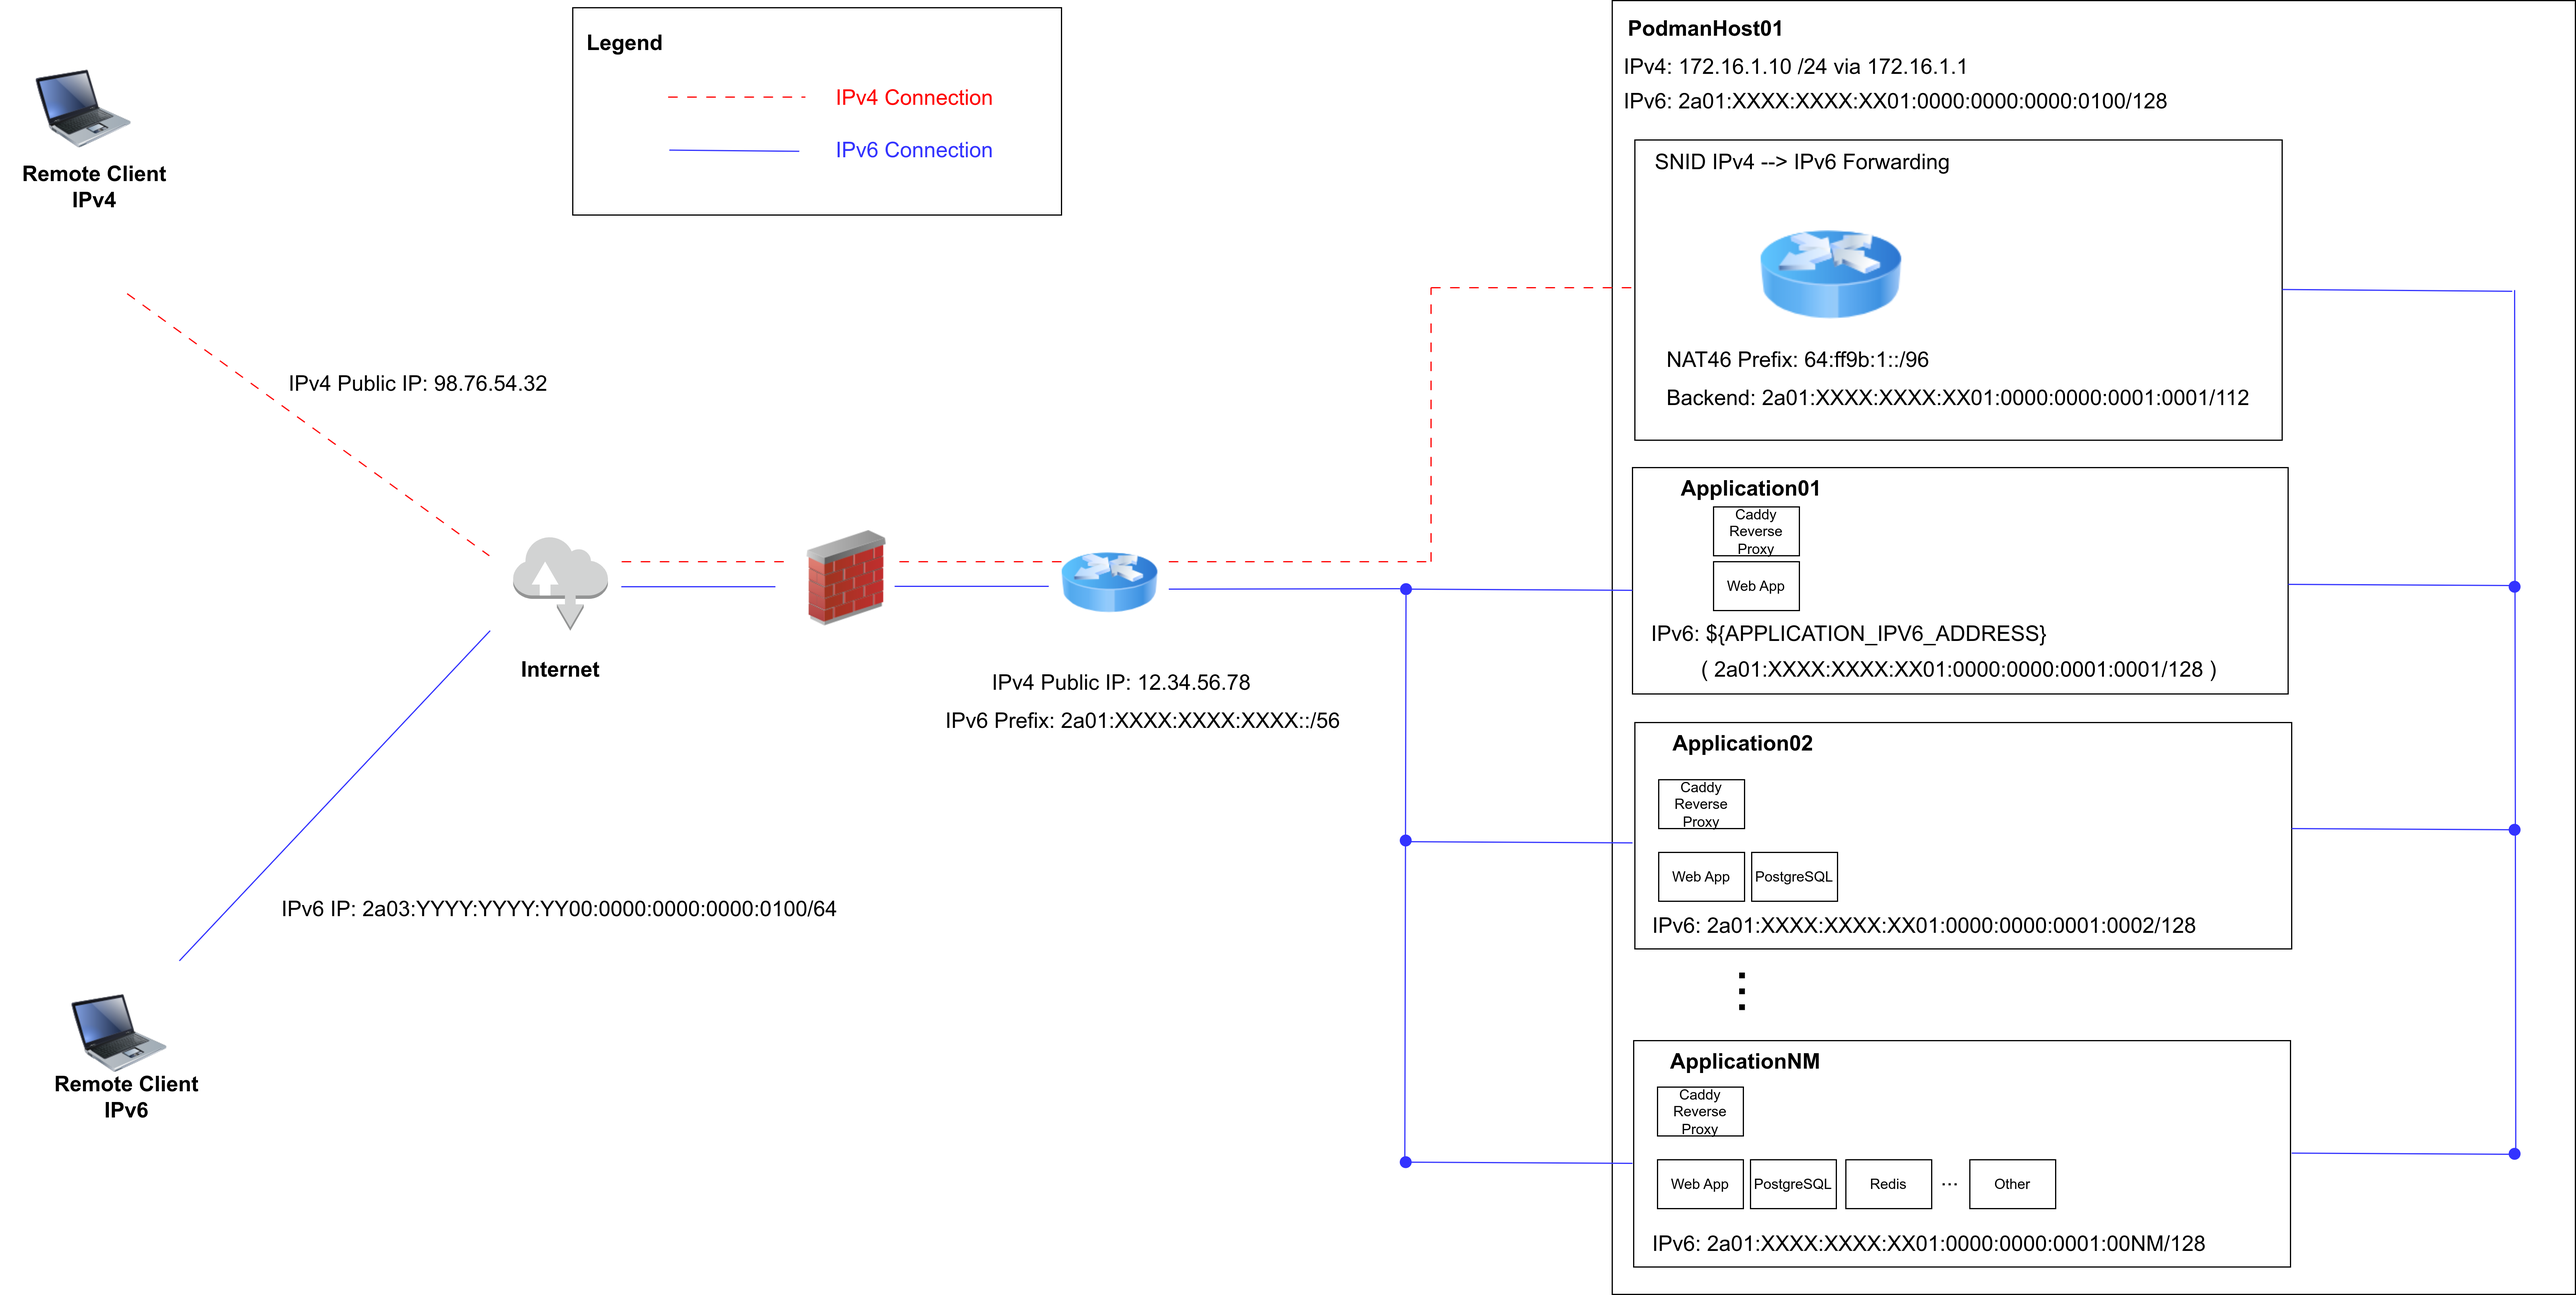
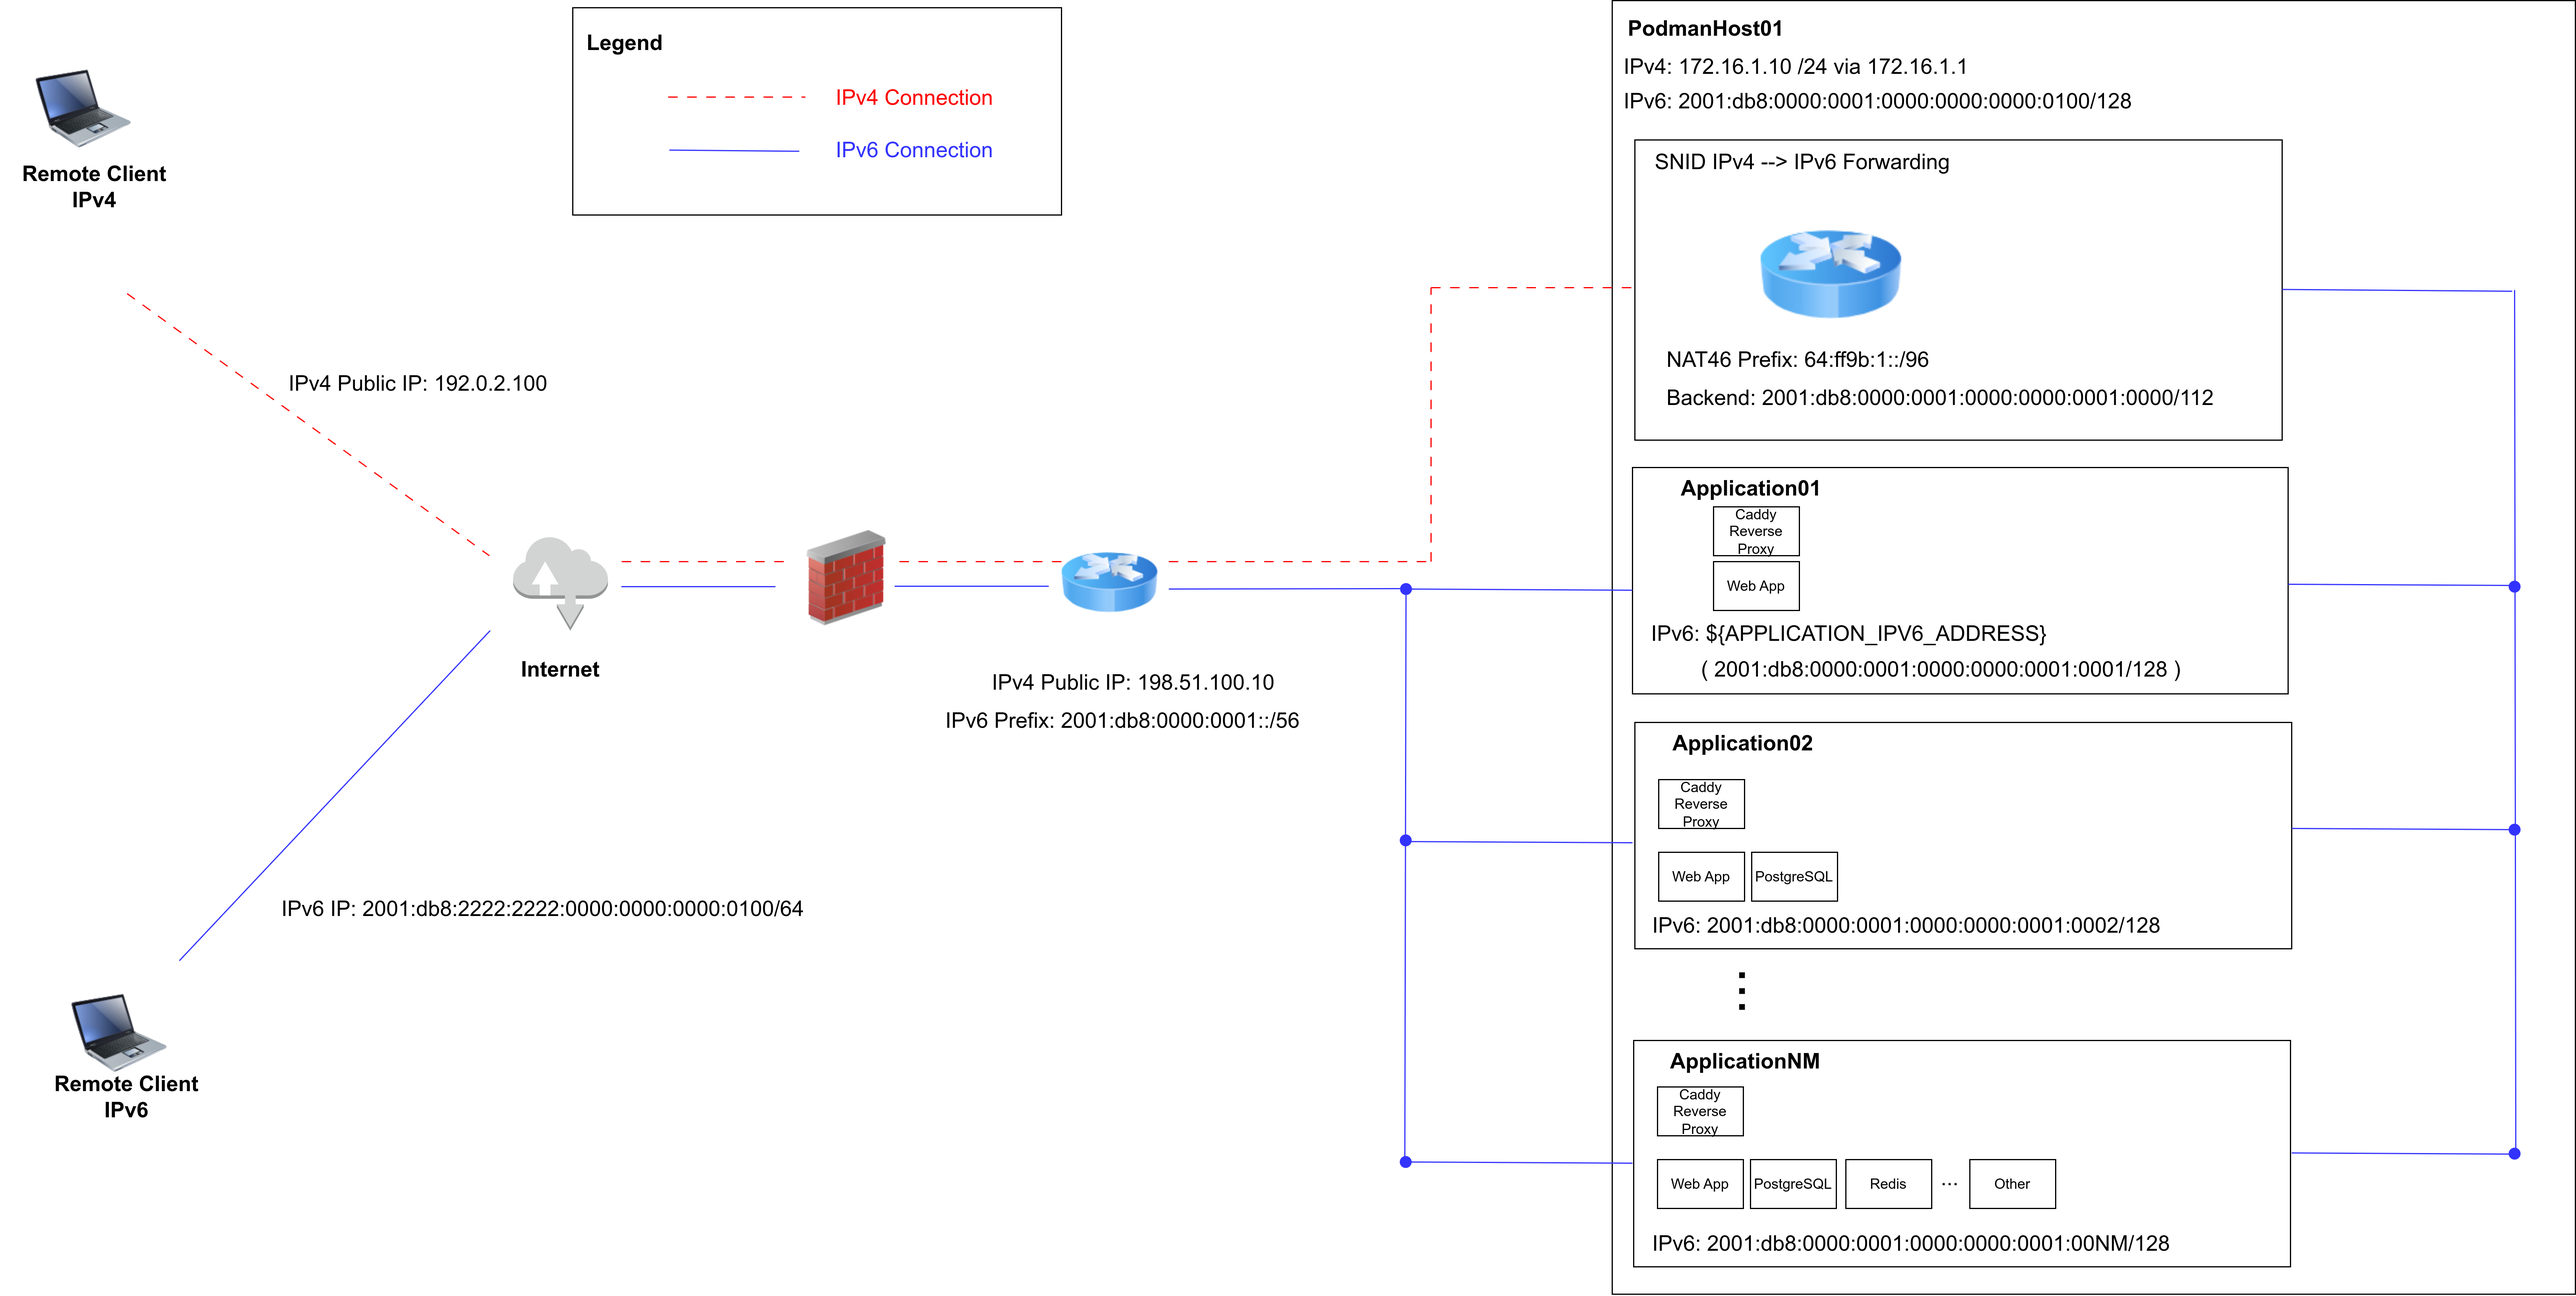
Updating Network Diagram and Document to use IP Addresses for Documentation Purposes (rfc3849 / rfc5737)

diff --git a/docs/tutorials/podman_pasta_ipv6_with_snid_ipv4.md b/docs/tutorials/podman_pasta_ipv6_with_snid_ipv4.md
@@ -45,29 +45,27 @@ This Tutorial assumes the General "Homelab" Setup (within a LAN/VLAN), or Hosted
 
 This is NOT required in case you have a Server which has a Public IPv4 Address, however for the sake of Explanation, the NAT Setup is best, especially with regards to logging the Remote Client IPv4 Address.
 
-![PODMAN Pasta Tutorial Network Diagram](https://raw.githubusercontent.com/containers/podman/tree/main/docs/tutorials/podman_pasta_ipv6_with_snid_ipv4.svg)
-
-> **Note**  
->
-> The IPv6 Address descrbed in this Tutorial (2a01:XXXX:XXXX:XXXX:XXXX:XXXX:XXXX:XXX) might not apply to everybody. Some IPv6 Addresses will beging with **2a01**, some with **2a03**, some with **2003**, etc. It's just explicitely written so that it's NOT confused with the link-local addresses (such as fe80:XXXX:XXXX:XXXX:XXXX:XXXX:XXXX:XXXX).
+![PODMAN Pasta Tutorial Network Diagram](podman_pasta_ipv6_with_snid_ipv4.svg)
 
 The Podman Host (Bare Metal or e.g. KVM Virtual Machine) is supposed to have:
-- Public IPv4 Address: 12.34.56.78
+- Public IPv4 Address: 198.51.100.10 (https://www.rfc-editor.org/rfc/rfc5737)
 - Private IPv4 Address: 172.16.1.10/24
-- Public+Private IPv6 Address: IPv6: 2a01:XXXX:XXXX:XX01:0000:0000:0000:0100/128
+- Public+Private IPv6 Address: IPv6: 2001:db8:0000:0001:0000:0000:0000:0100/128 (https://www.rfc-editor.org/rfc/rfc3849.html)
 
 Each Application will furthermore have an IPv6 Address, to which it will bind the Required Ports, which are typically:
 - Port 443/tcp (HTTPS)
 - Port 443/udp (HTTP3)
 - Port 80/tcp (HTTP)
 
-The Applications are supposed to be located within the following Network (corresponding to `snid` Backend CIDR Configuration): 2a01:XXXX:XXXX:XXXX:0000:0000:0001:0001/112 (2a01:XXXX:XXXX:XXXX:0000:0000:0001:0000 ... 2a01:XXXX:XXXX:XXXX:0000:0000:0001:ffff). Other IPv6 Addresses are also Possible, but then you must adjust `snid` Backend CIDR accordingly !
+The Applications are supposed to be located within the following Network (corresponding to `snid` Backend CIDR Configuration): 2001:db8:0000:0001:0000:0000:0001:0000/112 (2001:db8:0000:0001:0000:0000:0001:0000 ... 2001:db8:0000:0001:0000:0000:0001:ffff). Other IPv6 Addresses are also Possible, but then you must adjust `snid` Backend CIDR accordingly !
 
-For simplicity, the Application (`application01.MYDOMAIN.TLD`) described in this Tutorial will have APPLICATION_IPV6_ADDRESS="2a01:XXXX:XXXX:XXXX:0000:0000:0001:0001".
+For simplicity, the Application (`application01.MYDOMAIN.TLD`) described in this Tutorial will have APPLICATION_IPV6_ADDRESS="2001:db8:0000:0001:0000:0000:0001:0001".
 
-The Remote End-Client (Laptop) is supposed to have:
-- Public IPv4 Address: 98.76.54.32
-- Public+Private IPv6 Address: 2a03:YYYY:YYYY:YY00:0000:0000:0000:0100/64
+One Remote End-Client (Laptop) is supposed to have IPv4 Address:
+- Public IPv4 Address: 192.0.2.100 (https://www.rfc-editor.org/rfc/rfc5737)
+
+Another Remote End-Client (Laptop) is supposed to have IPv6 Address:
+- Public+Private IPv6 Address: 2001:db8:2222:2222:0000:0000:0000:0100/64 (https://www.rfc-editor.org/rfc/rfc3849.html)
 
 The IP Addresses of the Routers/Firewalls themselves are not described in this Section, as they are not relevant for the Configuration described by this Tutorial.
 
@@ -96,7 +94,7 @@ Then create a Systemd Service for it in `/etc/systemd/system/snid.service`
 ```
 # To get SNID to work:
 # Backend CIDR is supposed to be:
-# - Backend CIDR: 2a01:XXXX:XXXX:XXXX:0000:0000:0001:0001/112 (2a01:XXXX:XXXX:XXXX:0000:0000:0001:0000 ... 2a01:XXXX:XXXX:XXXX:0000:0000:0001:ffff)
+# - Backend CIDR: 2001:db8:0000:0001:0000:0000:0001:0001/112 (2001:db8:0000:0001:0000:0000:0001:0000 ... 2001:db8:0000:0001:0000:0000:0001:ffff)
 #
 # Convert IPv4 Address to IPv6 Address Representation: 
 # - https://www.agwa.name/blog/post/using_sni_proxying_and_ipv6_to_share_port_443
@@ -109,7 +107,7 @@ Description=SNID Service
 [Service]
 # Running as rootless does NOT appear to work, even when adding AmbientCapabilities=CAP_NET_BIND_SERVICE
 User=root
-ExecStart=/bin/bash -c 'cd /opt/snid && ip route add local 64:ff9b:1::/96 dev lo && ./snid -listen tcp:172.16.1.10:443 -mode nat46 -nat46-prefix 64:ff9b:1:: -backend-cidr 2a01:XXXX:XXXX:XXXX:0000:0000:0001:0001/112'
+ExecStart=/bin/bash -c 'cd /opt/snid && ip route add local 64:ff9b:1::/96 dev lo && ./snid -listen tcp:172.16.1.10:443 -mode nat46 -nat46-prefix 64:ff9b:1:: -backend-cidr 2001:db8:0000:0001:0000:0000:0001:0001/112'
 ExecStop=/bin/bash -c 'cd /opt/snid && ip route del local 64:ff9b:1::/96 dev lo'
 
 [Install]
@@ -133,14 +131,14 @@ Check that no Errors occurred !
 
 General:
 ```
-ip -6 addr add 2a01:XXXX:XXXX:XX01:0000:0000:0001:0001/64 dev ens18 
+ip -6 addr add 2001:db8:0000:0001:0000:0000:0001:0001/64 dev ens18 
 ```
 
 For Fedora:
 ```
 nmcli connection edit ens18
 set ipv6.address
-2a01:XXXX:XXXX:XX01:0000:0000:0001:0001
+2001:db8:0000:0001:0000:0000:0001:0001
 "Do you want to set 'ipv6.method' to manual"? -> no
 nmcli connection show ens18 | grep -i addr
 systemctl restart NetworkManager
@@ -148,19 +146,19 @@ systemctl restart NetworkManager
 
 For Debian/Ubuntu add in `/etc/network/interfaces` (or `/etc/network/interfaces.d/<my-interface>`) a line within the relevant Interface Block:
 ```
-ip -6 addr add 2a01:XXXX:XXXX:XX01:0000:0000:0001:0001/64 dev ens18
+ip -6 addr add 2001:db8:0000:0001:0000:0000:0001:0001/64 dev ens18
 ```
 
 # DNS Setup
 In Order for Direct IPv6 Connectivity to work, an appropriate AAAA (IPv6) Record Must be present for the Application Hostname:
 ```
-application01          IN      AAAA    2a01:XXXX:XXXX:XX01:0000:0000:0001:0001
+application01          IN      AAAA    2001:db8:0000:0001:0000:0000:0001:0001
 ```
 
 For IPv4 Connectivity, it is the IPv4 Address of the `snid` Host that must be Entered.
 In this Tutorial, since `snid` is assumed to be running on the Podman Host itself, this simply means creating an A Record for the Podman Host itself:
 ```
-application01          IN      A    12.34.56.78
+application01          IN      A    198.51.100.10
 ```
 
 > **Warning**  
